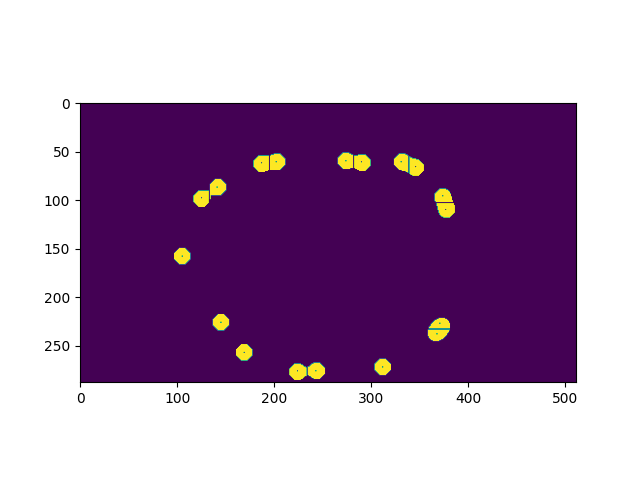
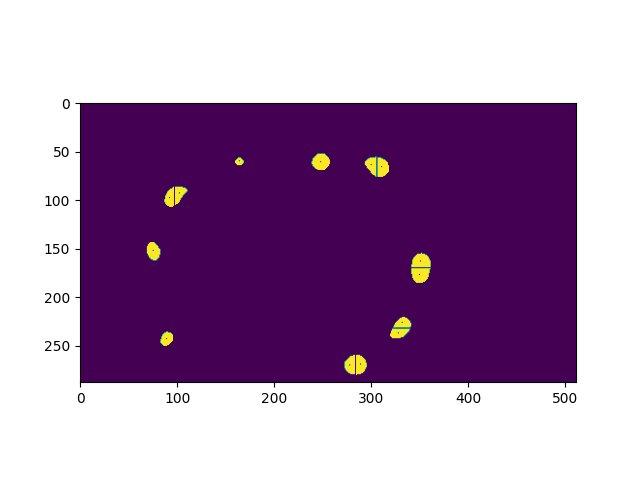
data augmentation

diff --git a/dataprocess.py b/dataprocess.py
@@ -10,6 +10,9 @@ from torchvision import transforms
 from scipy.stats import multivariate_normal
 import cv2
 from utils import im_convert
+import albumentations as A
+from albumentations.pytorch import ToTensorV2
+
 
 def generate_mask(img_height,img_width,radius,center_x,center_y):
     y,x=np.ogrid[0:img_height,0:img_width]
@@ -108,44 +111,66 @@ class Medical_Data(Dataset):
         elif set_mode == 'valid':
             self.imgs_path = self.imgs_path[self.train_len:]
         elif set_mode == 'test':
-            self.imgs_path = self.imgs_path[-20:]
+            self.imgs_path = self.imgs_path[-1:]
 
         print('Finished reading the {}_{} set of medical dataset ({} samples found)'
             .format(data_mode, set_mode, len(self.imgs_path)))
-
-    def augment(self, image, code):
-        print("data augment")
 
     def __getitem__(self, index):
         image_path = self.imgs_path[index]
         label_path = image_path.replace("images","point_labels").replace(".png",".json")
 
-        image = Image.open(image_path).convert("RGB")
-        heatmap = np.array(heatmap_generator(label_path), dtype=np.float32)
+        image = np.array(Image.open(image_path), dtype=np.float32) / 255.
+        mask = np.array(heatmap_generator(label_path))
 
         if self.set_mode == 'train':
-            self.transform = transforms.Compose([
-                # transforms.Resize((288,512)),
-                # transforms.RandomResizedCrop(224,scale=(0.5,1.0)),
-                # transforms.RandomHorizontalFlip(),
-                transforms.ToTensor(),
-                # transforms.Normalize(mean=[0.485, 0.456, 0.406], std=[0.229, 0.224, 0.225])
-            ])
+            self.transform = A.Compose(
+                    [
+                        A.Resize(width=512, height=288),
+                        # A.RandomCrop(width=1280, height=720),
+                        # A.Rotate(limit=40, p=1, border_mode=cv2.BORDER_CONSTANT),
+                        A.HorizontalFlip(p = 0.5),
+                        A.VerticalFlip(p = 0.5),
+                        A.ColorJitter(p = 0.5),
+                        # A.OneOf([
+                        #     A.Blur(blur_limit=3, p=0.5),
+                        #     A.ColorJitter(p=0.5),
+                        # ], p=1.0),
+                        # A.Normalize(
+                        #     mean=[0, 0, 0],
+                        #     std=[1, 1, 1],
+                        #     max_pixel_value=255,
+                        # ),
+                        ToTensorV2(),
+                    ]
+                )
         elif self.set_mode == 'valid':
-           self.transform = transforms.Compose([
-                transforms.ToTensor(),
-                # transforms.Normalize(mean=[0.485, 0.456, 0.406], std=[0.229, 0.224, 0.225])
-            ])
+           self.transform = A.Compose(
+                    [
+                        A.Resize(width=512, height=288),
+                        ToTensorV2(),
+                    ]
+                )
         else:
-            self.transform = transforms.Compose([
-                transforms.ToTensor(),
-                # transforms.Normalize(mean=[0.485, 0.456, 0.406], std=[0.229, 0.224, 0.225])
-            ])
+             self.transform = A.Compose(
+                    [
+                        A.Resize(width=512, height=288),
+                        ToTensorV2(),
+                    ]
+                )
 
-        image = self.transform(image)
-        heatmap = self.transform(heatmap)
+        if self.transform:
+            augmentations = self.transform(image=image, mask=mask)
+            image = augmentations["image"]
+            mask = augmentations["mask"]
+            # 增加一个维度
+            mask = mask.unsqueeze(0)
 
-        return image, heatmap, label_path
+            # print(image)
+            # print(mask)
+            # print(image.dtype)
+            # print(mask.dtype)
+        return image, mask, label_path
 
     def __len__(self):
         return len(self.imgs_path)
@@ -159,7 +184,8 @@ if __name__ == "__main__":
                                                batch_size=1, 
                                                shuffle=True)
     dataiter = iter(simulator_loader)
-    images, labels, _ = dataiter.next()
+    images, labels, label_path = dataiter.next()
+    print(label_path)
     print(images.shape)
     print(labels.shape)
     image = im_convert(images, True)

diff --git a/predict.py b/predict.py
@@ -91,7 +91,6 @@ def OSTU(predict):
     else:
         return points
 
-
 def check_out(image_out,points_big,bboxs_big):
     # print(image_out.shape[0],image_out.shape[1])
     for i in range(len(points_big)):
@@ -107,28 +106,33 @@ def check_out(image_out,points_big,bboxs_big):
         # print("ymax",ymax)
         if xmax-xmin<=ymax-ymin:
             # y don't change
-            flag = 0
-            for i in range(xmin,xmax):
-                if image_out[y,i] == True and image_out[y,i-1] == False:
-                    image_out[y,i] = False
-                    flag = 1
-                if i<image_out.shape[1]-1 and image_out[y,i] == False and image_out[y,i+1]== False and flag==1:
-                    break
-                elif i ==image_out.shape[1]-1:
-                    image_out[y,i] = False
+            image_out[y,xmin:xmax] = False
+
+            # flag = 0
+            # for i in range(xmin,xmax):
+            #     if image_out[y,i] == True and image_out[y,i-1] == False:
+            #         image_out[y,i] = False
+            #         flag = 1
+            #     if i<image_out.shape[1]-1 and image_out[y,i] == False and image_out[y,i+1]== False and flag==1:
+            #         break
+            #     elif i ==image_out.shape[1]-1:
+            #         image_out[y,i] = False
 
         elif xmax-xmin>ymax-ymin:
             # x don't change
-            flag = 0
-            for i in range(ymin,ymax):
-                if image_out[i,x] == True and image_out[i-1,x] == False:
-                    image_out[i,x] = False
-                    flag =1
-                if i<image_out.shape[0]-1 and image_out[i,x] == False and image_out[i+1,x]== False and flag==1:
-                    break
-                elif i ==image_out.shape[0]-1:
-                    image_out[i,x] = False
+            image_out[ymin:ymax,x]=False
+            
+            # flag = 0
+            # for i in range(ymin,ymax):
+            #     if image_out[i,x] == True and image_out[i-1,x] == False:
+            #         image_out[i,x] = False
+            #         flag =1
+            #     if i<image_out.shape[0]-1 and image_out[i,x] == False and image_out[i+1,x]== False and flag==1:
+            #         break
+            #     elif i ==image_out.shape[0]-1:
+            #         image_out[i,x] = False
     return image_out
+
 
 def OSTU_test(predict):
     radius = 2
@@ -254,7 +258,7 @@ def main():
     batch_size = 1
     num_workers = 1
     test_path = './Traindata/'
-    model_path = './model/new_Unet.pt'
+    model_path = './model/lr_ResnextUnett.pt'
     test_dataset = Medical_Data(test_path, data_mode='simulator', set_mode='test')
     test_loader = torch.utils.data.DataLoader(
             dataset=test_dataset,

diff --git a/train.py b/train.py
@@ -21,7 +21,7 @@ from utils import get_device
 gpus = [4, 5]
 torch.cuda.set_device('cuda:{}'.format(gpus[0]))
 
-train_name = 'lr_ResnextUnett'
+train_name = 'ag_lr_ResnextUnet'
 # hyperparameter
 default_config = dict(
     batch_size=32,

diff --git a/README.md b/README.md
@@ -12,6 +12,19 @@ TPR即为敏感度(sensitivity) 所有的点里面标对了多少个
 PPV即为精确率(Precision) 标的点里面对了多少个  
 
 
+
+baseline augmentation
+- rotation of ±60◦
+- pixel shifting in a range of ±10%
+- mask pixel shifting in a range of ±1%
+- shearing in a range of ±0.1
+- brightness in a range of ±0.2
+- contrast in a range from 0.3 to 0.5
+- random sat- uration in a range from 0.5 to 2.0 and hue in a range of ±0.1
+- horizontally and vertically with a probability of 50%
+
+baseline also use 5-fold
+
 ## Simu
 |  model         |  TPR(sensitivity)  |  PPV(Precision)    |
 |  ----          | ----  | ----    |
